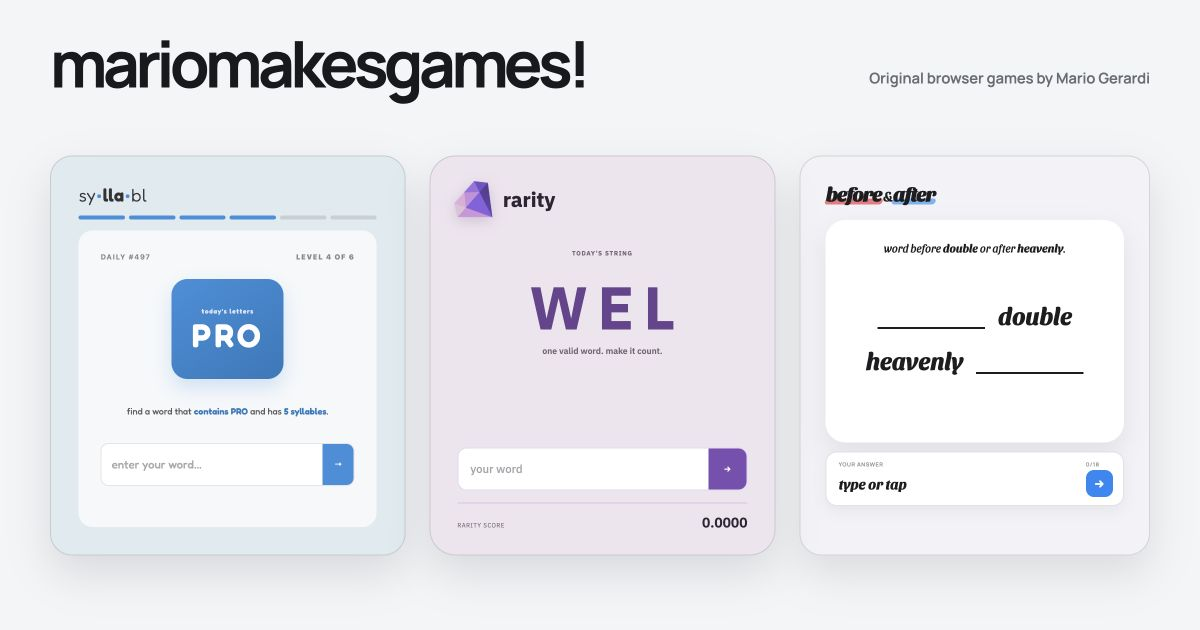
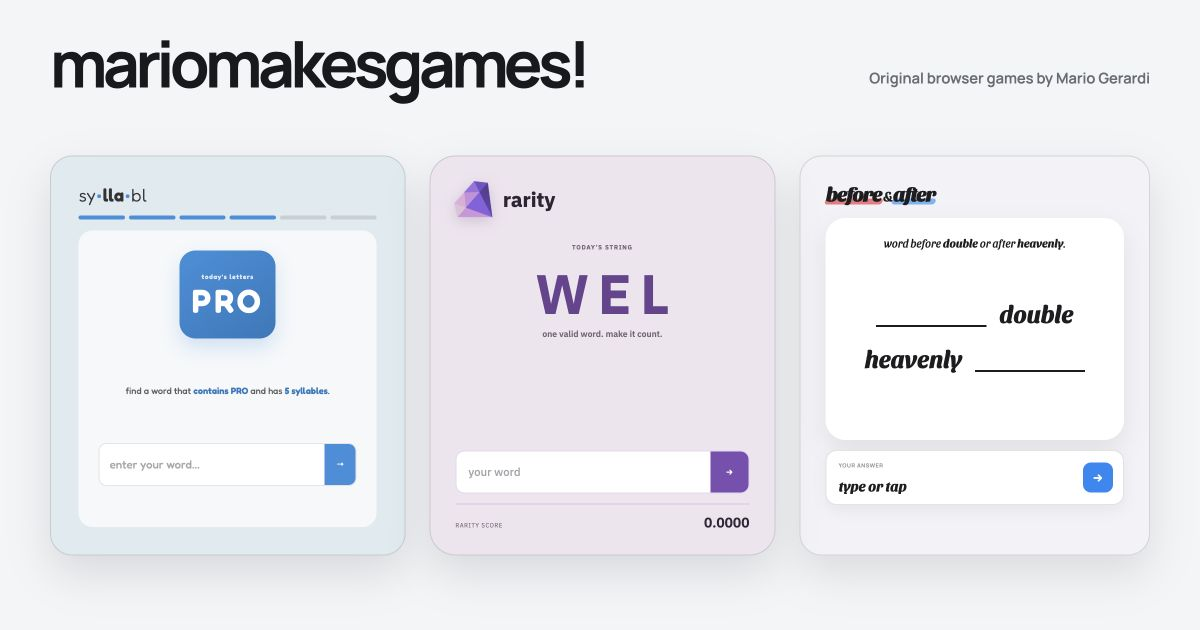
Polish homepage cameo timing and layout

diff --git a/src/app-shell/hero-game-previews.tsx b/src/app-shell/hero-game-previews.tsx
@@ -1,40 +1,73 @@
 "use client";
 
 import Image from "next/image";
-import { useEffect, useRef, useState } from "react";
+import { useCallback, useEffect, useRef, useState } from "react";
 
 type PreviewPhase = "idle" | "typing" | "submitted" | "feedback";
 
 function useCenteredDemo(answer: string) {
   const cardRef = useRef<HTMLDivElement>(null);
+  const phaseRef = useRef<PreviewPhase>("idle");
+  const resetTimerRef = useRef<ReturnType<typeof setTimeout> | null>(null);
+  const centeredRef = useRef(false);
   const [isCentered, setIsCentered] = useState(false);
   const [phase, setPhase] = useState<PreviewPhase>("idle");
   const [typedAnswer, setTypedAnswer] = useState("");
+
+  const updatePhase = useCallback((nextPhase: PreviewPhase) => {
+    phaseRef.current = nextPhase;
+    setPhase(nextPhase);
+  }, []);
+
+  const resetDemo = useCallback(() => {
+    updatePhase("idle");
+    setTypedAnswer("");
+    resetTimerRef.current = null;
+  }, [updatePhase]);
 
   useEffect(() => {
     const card = cardRef.current;
     const gallery = card?.closest(".hero-gallery");
     const prefersReducedMotion = window.matchMedia("(prefers-reduced-motion: reduce)").matches;
-    if (!card || !gallery || prefersReducedMotion || typeof IntersectionObserver === "undefined") return;
+    if (!card || !gallery || prefersReducedMotion) return;
 
-    const observer = new IntersectionObserver(
-      ([entry]) => {
-        setIsCentered(entry.isIntersecting);
-        if (!entry.isIntersecting) {
-          setPhase("idle");
-          setTypedAnswer("");
+    let animationFrame = 0;
+    const checkPosition = () => {
+      const cardBounds = card.getBoundingClientRect();
+      const galleryBounds = gallery.getBoundingClientRect();
+      const center = galleryBounds.left + galleryBounds.width / 2;
+      const activationRadius = galleryBounds.width * 0.07;
+      const isInCenter = cardBounds.right > center - activationRadius
+        && cardBounds.left < center + activationRadius;
+
+      if (isInCenter !== centeredRef.current) {
+        centeredRef.current = isInCenter;
+        if (isInCenter) {
+          if (resetTimerRef.current) {
+            clearTimeout(resetTimerRef.current);
+            resetTimerRef.current = null;
+          }
+          setIsCentered(true);
+        } else {
+          setIsCentered(false);
+          const hasFinished = phaseRef.current === "feedback";
+          if (hasFinished) {
+            resetTimerRef.current = setTimeout(resetDemo, 2800);
+          } else {
+            resetDemo();
+          }
         }
-      },
-      {
-        root: gallery,
-        rootMargin: "0px -48% 0px -48%",
-        threshold: 0.01,
-      },
-    );
+      }
 
-    observer.observe(card);
-    return () => observer.disconnect();
-  }, []);
+      animationFrame = requestAnimationFrame(checkPosition);
+    };
+
+    animationFrame = requestAnimationFrame(checkPosition);
+    return () => {
+      cancelAnimationFrame(animationFrame);
+      if (resetTimerRef.current) clearTimeout(resetTimerRef.current);
+    };
+  }, [resetDemo]);
 
   useEffect(() => {
     if (!isCentered) return;
@@ -46,18 +79,18 @@ function useCenteredDemo(answer: string) {
     for (let index = 1; index <= answer.length; index += 1) {
       timers.push(
         setTimeout(() => {
-          setPhase("typing");
+          updatePhase("typing");
           setTypedAnswer(answer.slice(0, index));
         }, startDelay + index * characterDelay),
       );
     }
 
     const submittedAt = startDelay + answer.length * characterDelay + 300;
-    timers.push(setTimeout(() => setPhase("submitted"), submittedAt));
-    timers.push(setTimeout(() => setPhase("feedback"), submittedAt + 450));
+    timers.push(setTimeout(() => updatePhase("submitted"), submittedAt));
+    timers.push(setTimeout(() => updatePhase("feedback"), submittedAt + 450));
 
     return () => timers.forEach(clearTimeout);
-  }, [answer, isCentered]);
+  }, [answer, isCentered, updatePhase]);
 
   return { cardRef, phase, typedAnswer };
 }
@@ -115,9 +148,6 @@ function SyllablPreview() {
         <i /><i /><i /><i className="is-current" /><i /><i />
       </div>
       <div className="preview-syllabl-panel">
-        <div className="preview-syllabl-meta">
-          <span>daily #497</span><b>level 4 of 6</b>
-        </div>
         <div className="preview-syllabl-token">
           <small>today’s letters</small><strong>PRO</strong>
         </div>
@@ -203,7 +233,6 @@ function BeforeAfterPreview() {
       <div className="preview-before-after-input">
         <span>your answer</span>
         <strong className="preview-entry-value" data-preview-entry>{typedAnswer || "type or tap"}</strong>
-        <small>{typedAnswer.length}/18</small>
         <b aria-hidden="true">{phase === "feedback" ? "✓" : "→"}</b>
       </div>
       <small className="preview-live-feedback">

diff --git a/app/globals.css b/app/globals.css
@@ -18986,6 +18986,111 @@ body:has(.syllabl-game-card .syllabl-play) {
   font-variant-numeric: tabular-nums;
 }
 
+/* Homepage cameo rhythm: consistent breathing room without flattening game identity. */
+.site-frame:not([data-game]) .hero-copy {
+  grid-template-rows: auto auto;
+}
+
+.site-frame:not([data-game]) .hero h1 {
+  grid-row: 1 / span 2;
+}
+
+.site-frame:not([data-game]) .hero-intro {
+  grid-row: 1;
+}
+
+.site-frame:not([data-game]) .hero-actions {
+  grid-row: 2;
+}
+
+.site-frame:not([data-game]) .section-heading {
+  grid-template-columns: 1fr;
+}
+
+.site-frame:not([data-game]) .preview-syllabl-panel {
+  grid-template-rows: auto 1fr auto;
+  gap: clamp(10px, 1.2vw, 14px);
+  padding: clamp(16px, 1.8vw, 20px);
+}
+
+.site-frame:not([data-game]) .preview-syllabl-token {
+  width: clamp(82px, 8vw, 96px);
+  min-height: clamp(74px, 7.6vw, 88px);
+  margin-top: 0;
+}
+
+.site-frame:not([data-game]) .preview-syllabl-panel > p {
+  max-width: 92%;
+  margin: 0 auto;
+  font-size: clamp(.52rem, .76vw, .65rem);
+}
+
+.site-frame:not([data-game]) .preview-entry-stack {
+  gap: 6px;
+}
+
+.site-frame:not([data-game]) .preview-rarity-panel {
+  margin-top: 12px;
+  padding: clamp(8px, 1vw, 12px) 2px 0;
+}
+
+.site-frame:not([data-game]) .preview-rarity-panel > strong {
+  margin: clamp(10px, 1.4vw, 15px) 0 7px;
+  font-size: clamp(2.8rem, 4.6vw, 4.2rem);
+}
+
+.site-frame:not([data-game]) .preview-rarity-panel > p {
+  display: grid;
+  min-height: 2.7em;
+  max-width: 92%;
+  place-items: start center;
+  font-size: clamp(.54rem, .72vw, .64rem);
+  line-height: 1.35;
+}
+
+.site-frame:not([data-game]) .preview-rarity-entry {
+  margin-top: auto;
+}
+
+.site-frame:not([data-game]) .preview-rarity-score {
+  margin-top: 10px;
+  padding-top: 9px;
+}
+
+.site-frame:not([data-game]) .preview-before-after-puzzle {
+  margin-top: 13px;
+  padding: clamp(14px, 1.6vw, 18px);
+}
+
+.site-frame:not([data-game]) .preview-before-after-input {
+  min-height: 55px;
+  gap: 3px 12px;
+  margin-top: 10px;
+}
+
+.site-frame:not([data-game]) .preview-before-after-input > b {
+  grid-column: 2;
+  grid-row: 1 / span 2;
+  width: 30px;
+  height: 30px;
+}
+
+.site-frame:not([data-game]) .preview-card-before-after > .preview-live-feedback {
+  margin-top: 8px;
+}
+
+@media (max-width: 980px) {
+  .site-frame:not([data-game]) .hero-copy {
+    grid-template-rows: none;
+  }
+
+  .site-frame:not([data-game]) .hero h1,
+  .site-frame:not([data-game]) .hero-intro,
+  .site-frame:not([data-game]) .hero-actions {
+    grid-row: auto;
+  }
+}
+
 .game-card[data-game="syllabl"] {
   background:
     radial-gradient(circle at 12% 88%, rgb(52 144 220 / .12), transparent 34%),

diff --git a/app/page.tsx b/app/page.tsx
@@ -3,7 +3,6 @@ import { GameCard } from "../src/app-shell/game-card";
 import { HeroGamePreviews } from "../src/app-shell/hero-game-previews";
 import { SiteFooter } from "../src/app-shell/site-footer";
 import { SiteHeader } from "../src/app-shell/site-header";
-import { siteBrand } from "../src/app-shell/site-brand";
 import { hubGames } from "../src/games/registry";
 
 export default function Home() {
@@ -15,7 +14,6 @@ export default function Home() {
       <main>
         <section className="hero page-width">
           <div className="hero-copy">
-            <p className="eyebrow">A game collection by {siteBrand.creator}</p>
             <h1>Challenge yourself<span className="hero-period">.</span></h1>
             <p className="hero-intro">
               Pick a game and see how you do.
@@ -50,9 +48,6 @@ export default function Home() {
               <p className="eyebrow">All games</p>
               <h2>Choose your next one.</h2>
             </div>
-            <p>
-              Three ready now. Three more on the way.
-            </p>
           </div>
 
           <div className="game-grid">
